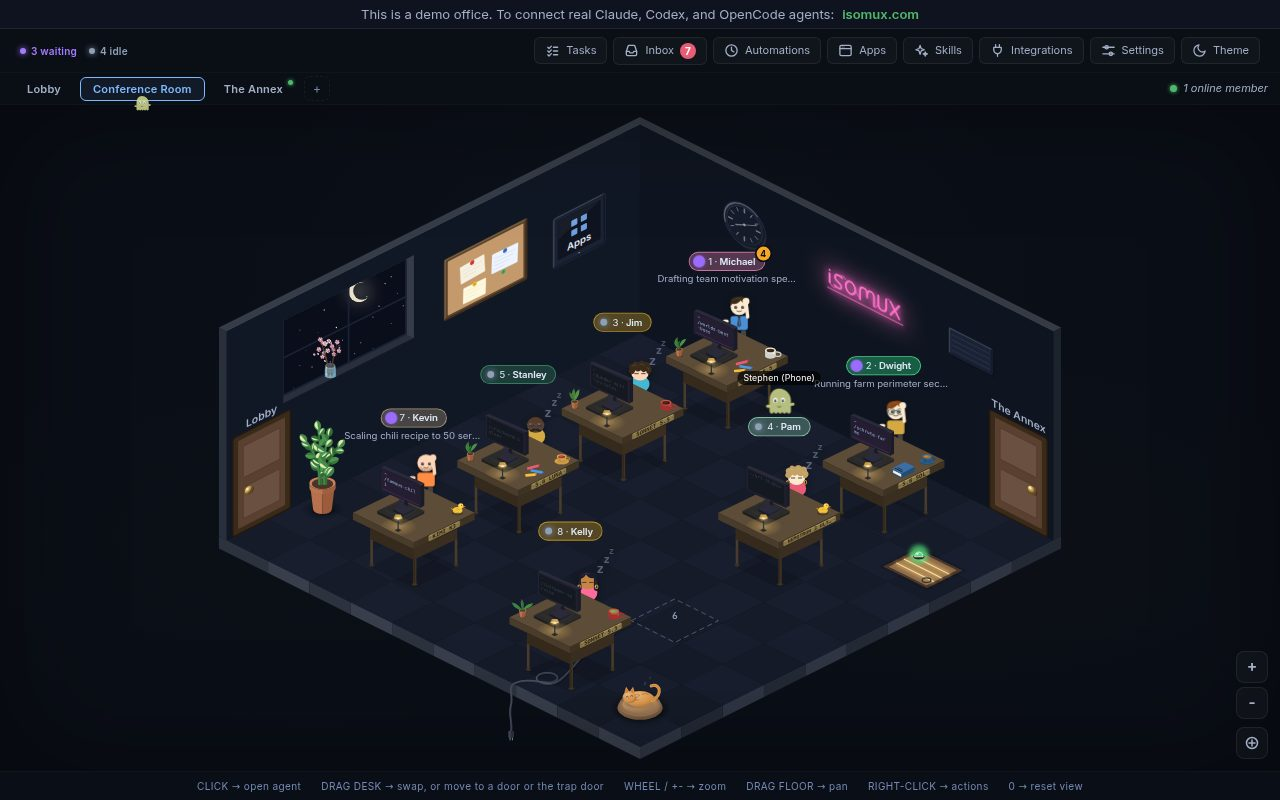
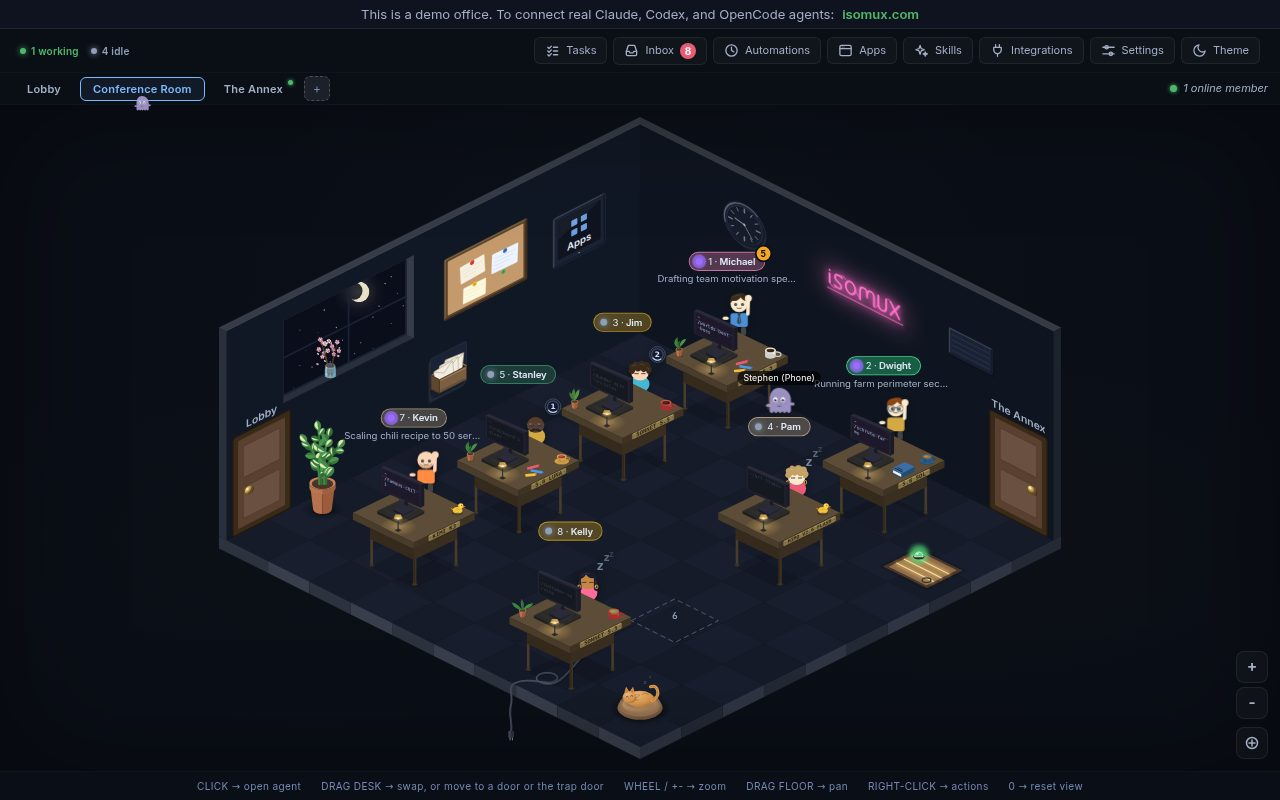
Room header: drop the waiting count; front working counts the back room too (task 0cd2807f)
The room header (MobileHeader on a phone, the HUD on a desktop) no
longer shows a "waiting" count. On the front view, "working" counts the
working agents of the front and the back room, so work in the back room
shows from the front; error and idle stay front-only, and the back
room's own screen keeps its counts. backAttention reuses getRoomCounts.
The office.status.waiting copy goes from the four catalogs; the
parallel-agents use case and its two screenshots follow.

diff --git a/ui/office/back-room-front.dom.test.tsx b/ui/office/back-room-front.dom.test.tsx
@@ -1,6 +1,6 @@
 // The front view with a back room (task 5b503e32): back agents get no desk,
-// the header counts only what the front draws, and the trap door carries the
-// back room's attention.
+// and the trap door carries the back room's attention. The header's working
+// count takes in the back room (task 0cd2807f).
 import { expect, it } from "bun:test";
 import { setUpDomTestFile } from "../test-support/dom.ts";
 
@@ -45,7 +45,7 @@ function agent(id: string, desk: number, state: string) {
   };
 }
 
-it("counts front agents in the header and shows back agents only through the trap door", async () => {
+it("shows back agents only through the trap door", async () => {
   const view = mount([room("first")]);
   await act(async () =>
     shimEmit({
@@ -67,12 +67,6 @@ it("counts front agents in the header and shows back agents only through the tra
   expect(text).toContain("Front");
   expect(text).not.toContain("BackA");
   expect(text).not.toContain("BackB");
-  // The header's working and error counts would come only from back agents.
-  const count = (n: number, key: Parameters<typeof EN.t>[0]) =>
-    new RegExp(`${n}\\s*${EN.t(key as never)}`);
-  expect(text).toMatch(count(1, "office.status.waiting"));
-  expect(text).not.toMatch(count(1, "office.status.working"));
-  expect(text).not.toMatch(count(1, "office.status.error"));
   // The trap door shows, its lamp red for the back room's error.
   const hatch = view.container.querySelector("[data-trap-door]");
   expect(hatch).not.toBeNull();
@@ -84,6 +78,102 @@ it("counts front agents in the header and shows back agents only through the tra
   // The two back agents, as a whole number in the label.
   expect(hatch?.getAttribute("aria-label")).toMatch(/(^|\D)2(\D|$)/);
 });
+
+// The header's counts (task 0cd2807f): on the front, working takes in the
+// back room's working agents, while error and idle stay the front's; the back
+// room's screen counts its own agents. No state but those three gets a count.
+// The phone header shows working and error only.
+const backDesk = (stool: number) => deskOfBackSeat({ table: 0, stool });
+const countedAgents = [
+  agent("F0", 0, "thinking"),
+  agent("F1", 1, "waiting_for_response"),
+  agent("F2", 2, "error"),
+  agent("F3", 3, "idle"),
+  agent("B0", backDesk(0), "thinking"),
+  agent("B1", backDesk(1), "tool_executing"),
+  agent("B2", backDesk(2), "waiting_for_response"),
+  agent("B3", backDesk(3), "error"),
+  agent("B4", backDesk(4), "error"),
+  agent("B5", backDesk(5), "idle"),
+  agent("B6", backDesk(6), "stopped"),
+];
+// Each count is a dot followed by "<n> <label>".
+function headerCounts(container: HTMLElement) {
+  return [...container.querySelectorAll("div")]
+    .filter(
+      (d) =>
+        d.firstElementChild?.tagName === "SPAN" &&
+        d.firstElementChild.textContent === "" &&
+        d.children.length === 1 &&
+        /^\d+ \S/.test(d.textContent ?? ""),
+    )
+    .map((d) => d.textContent);
+}
+const chip = (n: number, key: Parameters<typeof EN.t>[0]) =>
+  `${n} ${EN.t(key as never)}`;
+const headerCases: { screen: string; mobile: boolean; want: string[] }[] = [
+  {
+    screen: "front",
+    mobile: false,
+    want: [
+      chip(3, "office.status.working"),
+      chip(1, "office.status.error"),
+      chip(1, "office.status.idle"),
+    ],
+  },
+  {
+    screen: "back",
+    mobile: false,
+    want: [
+      chip(2, "office.status.working"),
+      chip(2, "office.status.error"),
+      chip(2, "office.status.idle"),
+    ],
+  },
+  {
+    screen: "front",
+    mobile: true,
+    want: [chip(3, "office.status.working"), chip(1, "office.status.errShort")],
+  },
+  {
+    screen: "back",
+    mobile: true,
+    want: [chip(2, "office.status.working"), chip(2, "office.status.errShort")],
+  },
+];
+it.each(headerCases)(
+  "the $screen header counts (phone: $mobile)",
+  async ({ screen, mobile, want }) => {
+    fixture.setBackRoomOpen(screen === "back");
+    const view = mount([room("first")]);
+    await act(async () => {
+      fixture.dispatch({ type: "set_mobile", isMobile: mobile });
+    });
+    await act(async () =>
+      shimEmit({
+        type: "full_state",
+        agents: countedAgents,
+        rooms: [room("first")],
+        office: { name: "Back room test", prompt: null },
+        recentCwds: [],
+        killedAgents: [],
+        interactions: [],
+      } as never),
+    );
+    // The screen under test is drawn: front desks or back figures.
+    const text = view.container.textContent ?? "";
+    if (screen === "front") {
+      expect(text).toContain("F0");
+      expect(view.container.querySelector("[data-back-figure]")).toBeNull();
+    } else {
+      expect(
+        view.container.querySelector('[data-back-figure="B0"]'),
+      ).not.toBeNull();
+    }
+    expect(fixture.snapshot.isMobile).toBe(mobile);
+    expect(headerCounts(view.container)).toEqual(want);
+  },
+);
 
 it("names the trap door in the footer drag hint", async () => {
   const view = mount([room("first")]);

diff --git a/ui/office/OfficeView.tsx b/ui/office/OfficeView.tsx
@@ -473,9 +473,10 @@ export function OfficeView({
 
   const roomAgents = agents.filter((a) => a.roomId === currentRoomId);
   // The back room is drawn on its own screen; the front view shows only the
-  // desks, and its counts are the front's (task 5b503e32).
+  // desks (task 5b503e32).
   const frontAgents = roomAgents.filter((a) => !isBackSeat(a.desk));
   const backAgents = roomAgents.filter((a) => isBackSeat(a.desk));
+  const backCounts = getRoomCounts(backAgents);
   const seasonDesk = decorateScene
     ? seasonalDesk(
         seasonalItems,
@@ -489,11 +490,9 @@ export function OfficeView({
     ) ?? null;
   const backAttention: BackRoomAttention = {
     agents: backAgents.length,
-    working: backAgents.filter(
-      (a) => a.state === "thinking" || a.state === "tool_executing",
-    ).length,
+    working: backCounts.working,
     asking: backAgents.filter((a) => a.pendingPrompt != null).length,
-    error: backAgents.filter((a) => a.state === "error").length,
+    error: backCounts.error,
   };
   // A room takes no more agents when its front, and its back room where it
   // has one, are full: a door refuses such a room at once.
@@ -523,9 +522,12 @@ export function OfficeView({
   const [rightDoorDragOver, setRightDoorDragOver] = useState(false);
   const [leftDoorReject, setLeftDoorReject] = useState(false);
   const [rightDoorReject, setRightDoorReject] = useState(false);
-  // The header counts what the screen draws: the back room's agents on its
-  // screen, the front's otherwise.
-  const counts = getRoomCounts(showBackRoom ? backAgents : frontAgents);
+  // The back room's screen counts its own agents. The front counts its own
+  // agents too, except that working also takes the back room's (task 0cd2807f).
+  const frontCounts = getRoomCounts(frontAgents);
+  const counts = showBackRoom
+    ? backCounts
+    : { ...frontCounts, working: frontCounts.working + backCounts.working };
 
   const install = useInstallMode();
   // A member with a permission pack sees only the pages of its areas.
@@ -669,11 +671,6 @@ export function OfficeView({
                     n: counts.working,
                     c: "var(--green-text)",
                     l: "office.status.working",
-                  },
-                  {
-                    n: counts.waiting,
-                    c: "var(--purple-text)",
-                    l: "office.status.waiting",
                   },
                   {
                     n: counts.error,

diff --git a/ui/components/MobileHeader.tsx b/ui/components/MobileHeader.tsx
@@ -4,7 +4,6 @@ import type { AgentInfo } from "../../shared/types.ts";
 
 export type RoomCounts = {
   working: number;
-  waiting: number;
   error: number;
   idle: number;
 };
@@ -14,8 +13,6 @@ export function getRoomCounts(roomAgents: AgentInfo[]): RoomCounts {
     working: roomAgents.filter((a) =>
       ["thinking", "tool_executing"].includes(a.state),
     ).length,
-    waiting: roomAgents.filter((a) => a.state === "waiting_for_response")
-      .length,
     error: roomAgents.filter((a) => a.state === "error").length,
     idle: roomAgents.filter((a) => a.state === "idle" || a.state === "stopped")
       .length,
@@ -58,11 +55,6 @@ export function MobileHeader({
                 n: counts.working,
                 c: "var(--green-text)",
                 label: "office.status.working",
-              },
-              {
-                n: counts.waiting,
-                c: "var(--purple-text)",
-                label: "office.status.waiting",
               },
               {
                 n: counts.error,

diff --git a/shared/i18n/en.ts b/shared/i18n/en.ts
@@ -2788,7 +2788,6 @@ Never ask for or repeat secrets (API keys, tokens, passwords). Point people to t
   "office.pet.coatAria": "{species} coat {number}",
   "office.desk.swapBadge": "SWAP",
   "office.status.working": "working",
-  "office.status.waiting": "waiting",
   "office.status.error": "error",
   "office.status.idle": "idle",
   "office.backRoom.tooltip.one": "Back room · {count} agent",

diff --git a/shared/i18n/es.ts b/shared/i18n/es.ts
@@ -2866,7 +2866,6 @@ Cosas que puedes hacer por él:
   "office.pet.coatAria": "{species}, pelaje {number}",
   "office.desk.swapBadge": "INTERCAMBIAR",
   "office.status.working": "trabajando",
-  "office.status.waiting": "esperando",
   "office.status.error": "con error",
   "office.status.idle": "inactivos",
   "office.backRoom.tooltip.one": "Trastienda · {count} agente",

diff --git a/shared/i18n/ca.ts b/shared/i18n/ca.ts
@@ -2874,7 +2874,6 @@ Coses que pots fer per ell:
   "office.pet.coatAria": "{species}, pelatge {number}",
   "office.desk.swapBadge": "INTERCANVIA",
   "office.status.working": "treballant",
-  "office.status.waiting": "esperant",
   "office.status.error": "amb error",
   "office.status.idle": "inactius",
   "office.backRoom.tooltip.one": "Rebotiga · {count} agent",

diff --git a/shared/i18n/zh.ts b/shared/i18n/zh.ts
@@ -2564,7 +2564,6 @@ App 的一些原则：
   "office.pet.coatAria": "{species}毛色 {number}",
   "office.desk.swapBadge": "交换",
   "office.status.working": "工作中",
-  "office.status.waiting": "等待中",
   "office.status.error": "错误",
   "office.status.idle": "空闲",
   "office.backRoom.tooltip.one": "后屋 · {count} 位智能体",

diff --git a/docs/use-cases/parallel-agents.md b/docs/use-cases/parallel-agents.md
@@ -11,10 +11,10 @@ Isomux runs Claude Code, Codex, and OpenCode agents side by side, each at its ow
 
 ## Every agent in one view
 
-Each agent keeps its own conversation, working directory, and engine. The office shows each agent's state and what it works on, and the top bar counts the agents that wait for you.
+Each agent keeps its own conversation, working directory, and engine. The office shows each agent's state and what it works on, and the top bar counts the agents at work.
 
 <div class="shots">
-<img src="/use-cases/office-desktop.jpeg" alt="The demo office: eight agents at their desks, with a name and a status over each desk, a topic over the busy ones, and a count of waiting and idle agents in the top bar" width="1280" height="800" loading="lazy">
+<img src="/use-cases/office-desktop.jpeg" alt="The demo office: eight agents at their desks, with a name and a status over each desk, a topic over the busy ones, and a count of working and idle agents in the top bar" width="1280" height="800" loading="lazy">
 </div>
 
 ## Agents ask when they need you
